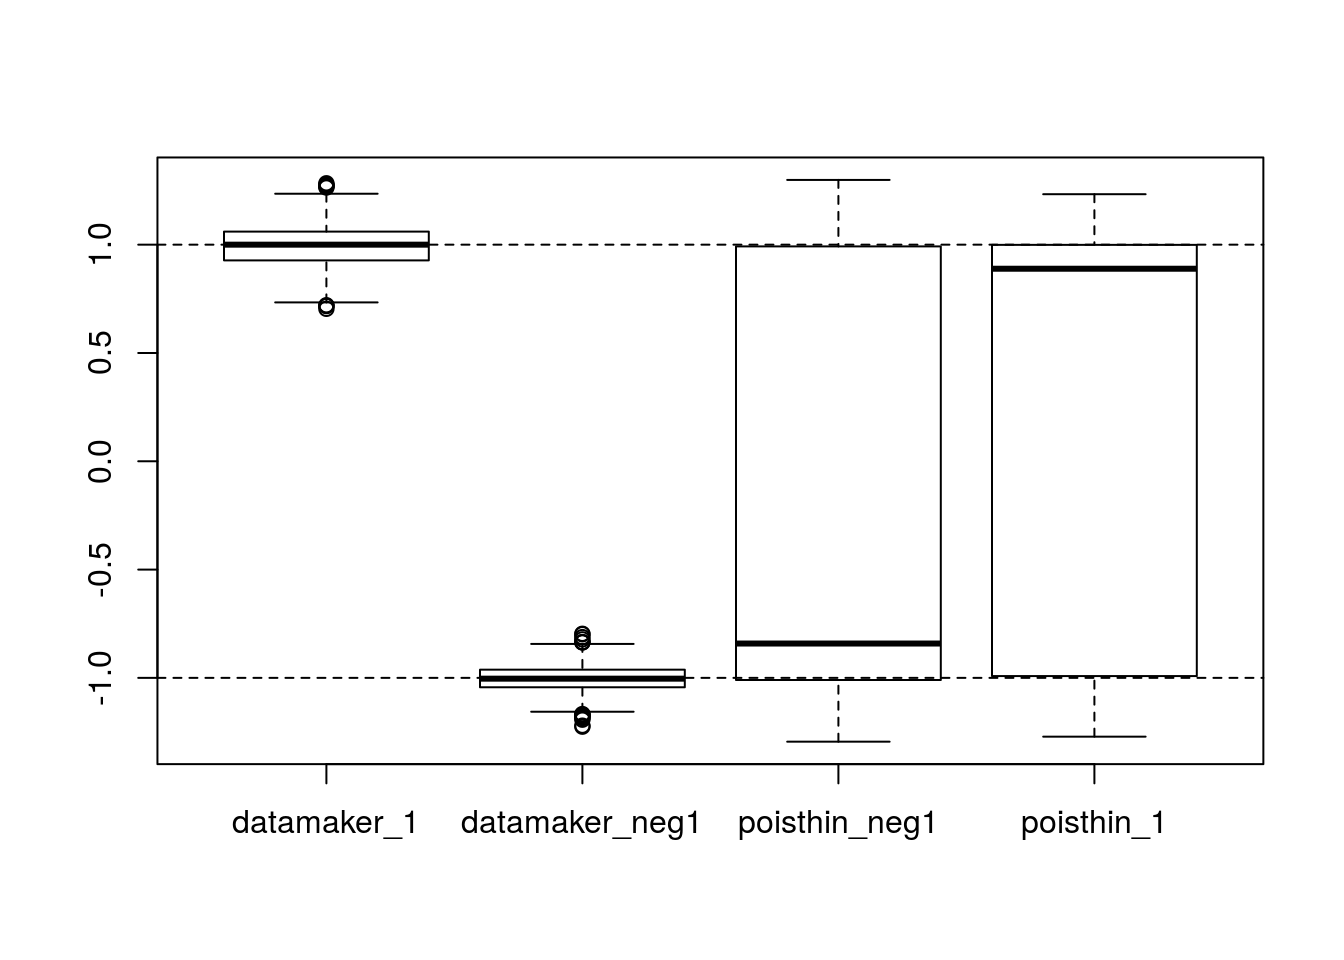
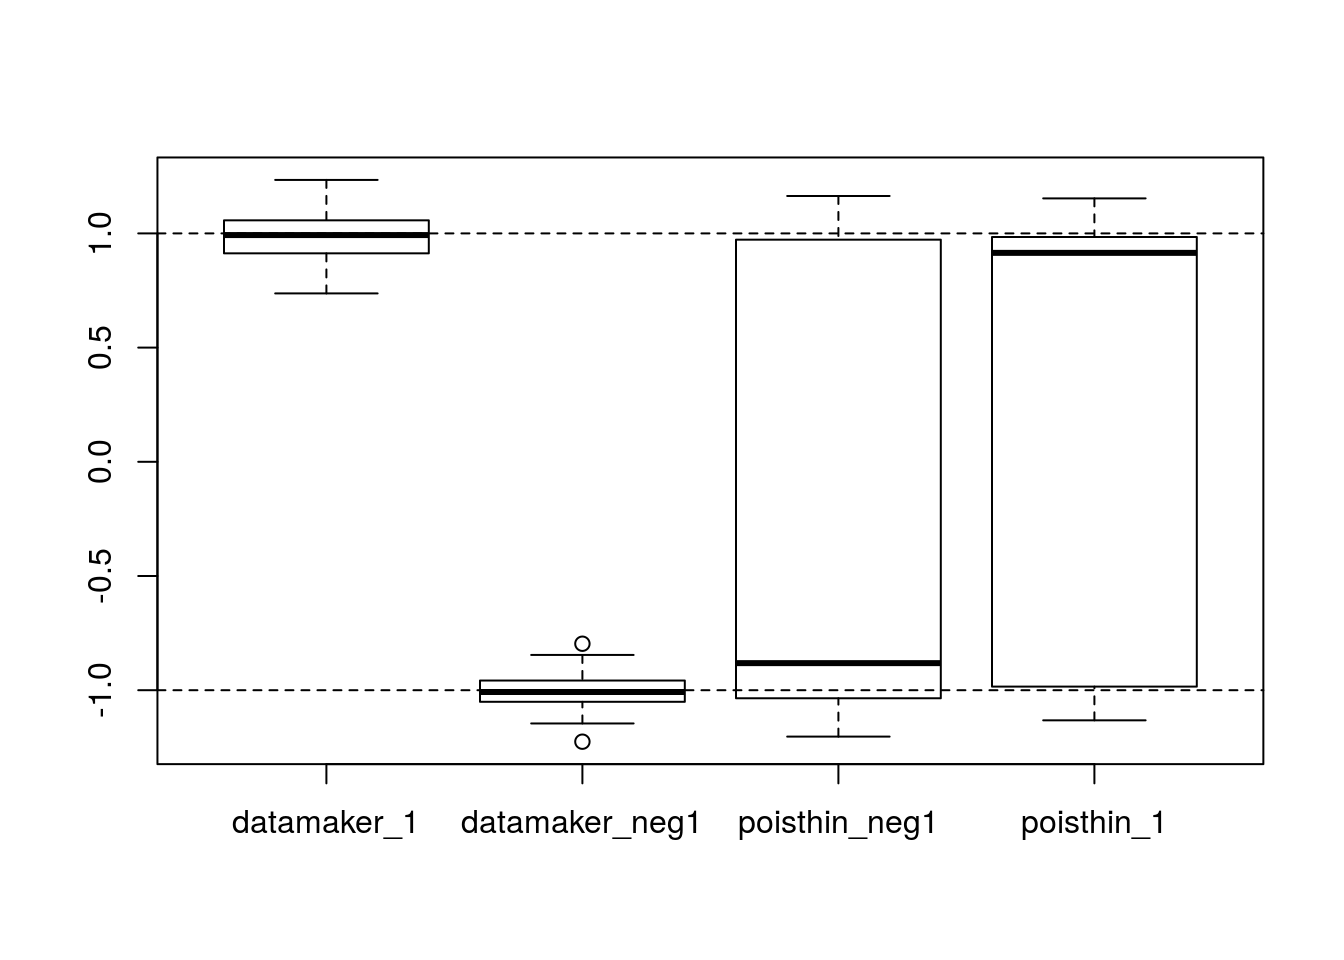
modify comparison

diff --git a/docs/compare_dg_seqgendiff.html b/docs/compare_dg_seqgendiff.html
@@ -13,7 +13,7 @@
 
 <meta name="date" content="2017-01-13" />
 
-<title>RUVB Plus ASH</title>
+<title>Inconsistancy between two ways to generate sequence data</title>
 
 <script src="site_libs/jquery-1.11.3/jquery.min.js"></script>
 <meta name="viewport" content="width=device-width, initial-scale=1" />
@@ -302,7 +302,7 @@ div.tocify {
 
 
 
-<h1 class="title toc-ignore">RUVB Plus ASH</h1>
+<h1 class="title toc-ignore">Inconsistancy between two ways to generate sequence data</h1>
 <h4 class="author"><em>David Gerard</em></h4>
 <h4 class="date"><em>January 13, 2017</em></h4>
 
@@ -337,13 +337,13 @@ args$path       &lt;- &quot;../output/small/&quot;
 args$alt_type   &lt;- &quot;constant&quot; ## forces to have same effect size as poisthin
 
 
-itermax &lt;- 1000
+itermax &lt;- 100
 simmat &lt;- matrix(NA, nrow = itermax, ncol = 4)
 colnames(simmat) &lt;- c(&quot;datamaker_1&quot;, &quot;datamaker_neg1&quot;, &quot;poisthin_neg1&quot;, &quot;poisthin_1&quot;)
 for (index in 1:itermax) {
   pout &lt;- poisthin(mat = smalldat, nsamp = nrow(smalldat),
                  ngene = 2, gselect = &quot;custom&quot;, gvec = c(TRUE, TRUE),
-                 constant_function, signal_params = list(), skip_gene = 0,
+                 signal_fun = constant_function, signal_params = list(),
                  prop_null = 0)
   dout &lt;- datamaker_counts_only(args)
   Yd &lt;- log2(dout$input$counts + 1)
@@ -360,11 +360,15 @@ for (index in 1:itermax) {
 </div>
 <div id="plot-results" class="section level1">
 <h1>Plot Results</h1>
-<p>Noteice that the boxplots should be centered about 1 and -1. datamaker is, and has much lower variability. Poisthin is scattered everywhere. This is a subtle bug and I need to figure out what’s going on.</p>
+<p>Notice that the boxplots should be centered about 1 and -1. datamaker is, and has much lower variability. Poisthin is scattered everywhere. This is a subtle bug and I need to figure out what’s going on.</p>
 <pre class="r"><code>boxplot(simmat)
 abline(h = 1, lty = 2)
 abline(h = -1, lty = 2)</code></pre>
 <p><img src="compare_dg_seqgendiff_files/figure-html/unnamed-chunk-2-1.png" width="672" /></p>
+<pre class="r"><code>mean(Xp[, 2])</code></pre>
+<pre><code>## [1] 0.5</code></pre>
+<pre class="r"><code>mean(Xd[, 2])</code></pre>
+<pre><code>## [1] 0.5</code></pre>
 <pre class="r"><code>sessionInfo()</code></pre>
 <pre><code>## R version 3.3.2 (2016-10-31)
 ## Platform: x86_64-pc-linux-gnu (64-bit)
